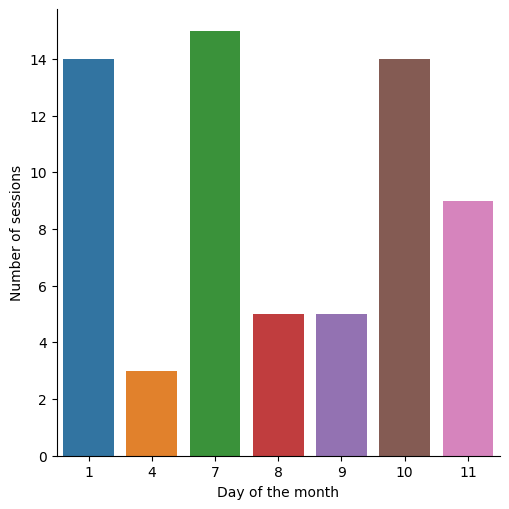
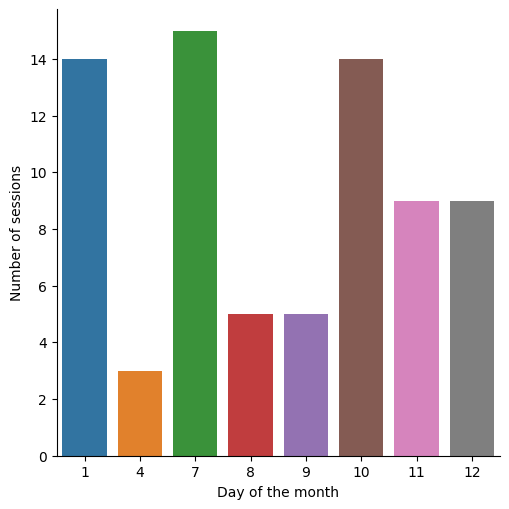
"Stats generated 2021-10-13"

diff --git a/all/2021/10/weekdays/1/index.html b/all/2021/10/weekdays/1/index.html
@@ -1,0 +1,29 @@
+<!DOCTYPE html>
+<html>
+  <head>
+    <meta charset="utf-8"/>
+    <title>Tuesdays October 2021</title>
+    <link rel="stylesheet" href="../../../../../styles.css"/>
+  </head>
+  <body>
+    <div id="container">
+      <nav>
+        <ul>
+          
+            <li><a href="../../">October 2021</a></li>
+            <li class="separator"></li>
+          
+          
+        </ul>
+      </nav>
+      <main>
+        <h1>Tuesdays October 2021</h1>
+        
+          <h2>Number of sessions per hour</h2>
+          <img src="sessions.png" alt="Number of sessions per hour"/>
+        
+        
+      </main>
+    </div>
+  </body>
+</html>

diff --git a/all/2021/10/days/12/index.html b/all/2021/10/days/12/index.html
@@ -1,0 +1,29 @@
+<!DOCTYPE html>
+<html>
+  <head>
+    <meta charset="utf-8"/>
+    <title>12 October 2021</title>
+    <link rel="stylesheet" href="../../../../../styles.css"/>
+  </head>
+  <body>
+    <div id="container">
+      <nav>
+        <ul>
+          
+            <li><a href="../../">October 2021</a></li>
+            <li class="separator"></li>
+          
+          
+        </ul>
+      </nav>
+      <main>
+        <h1>12 October 2021</h1>
+        
+          <h2>Number of sessions per hour</h2>
+          <img src="sessions.png" alt="Number of sessions per hour"/>
+        
+        
+      </main>
+    </div>
+  </body>
+</html>

diff --git a/all/2021/10/index.html b/all/2021/10/index.html
@@ -23,6 +23,10 @@
             
           
             
+              <li><a href="weekdays/1/">Tuesday</a></li>
+            
+          
+            
               <li><a href="weekdays/3/">Thursday</a></li>
             
           
@@ -68,6 +72,10 @@
           
             
               <li><a href="days/11/">11</a></li>
+            
+          
+            
+              <li><a href="days/12/">12</a></li>
             
           
         </ul>

diff --git a/all/2021/index.html b/all/2021/index.html
@@ -143,9 +143,9 @@
                   
                     <td>10.0</td>
                   
-                    <td>65.0</td>
+                    <td>74.0</td>
                   
-                    <td>22.521147766666665</td>
+                    <td>22.521004841666667</td>
                   
                 </tr>
               
